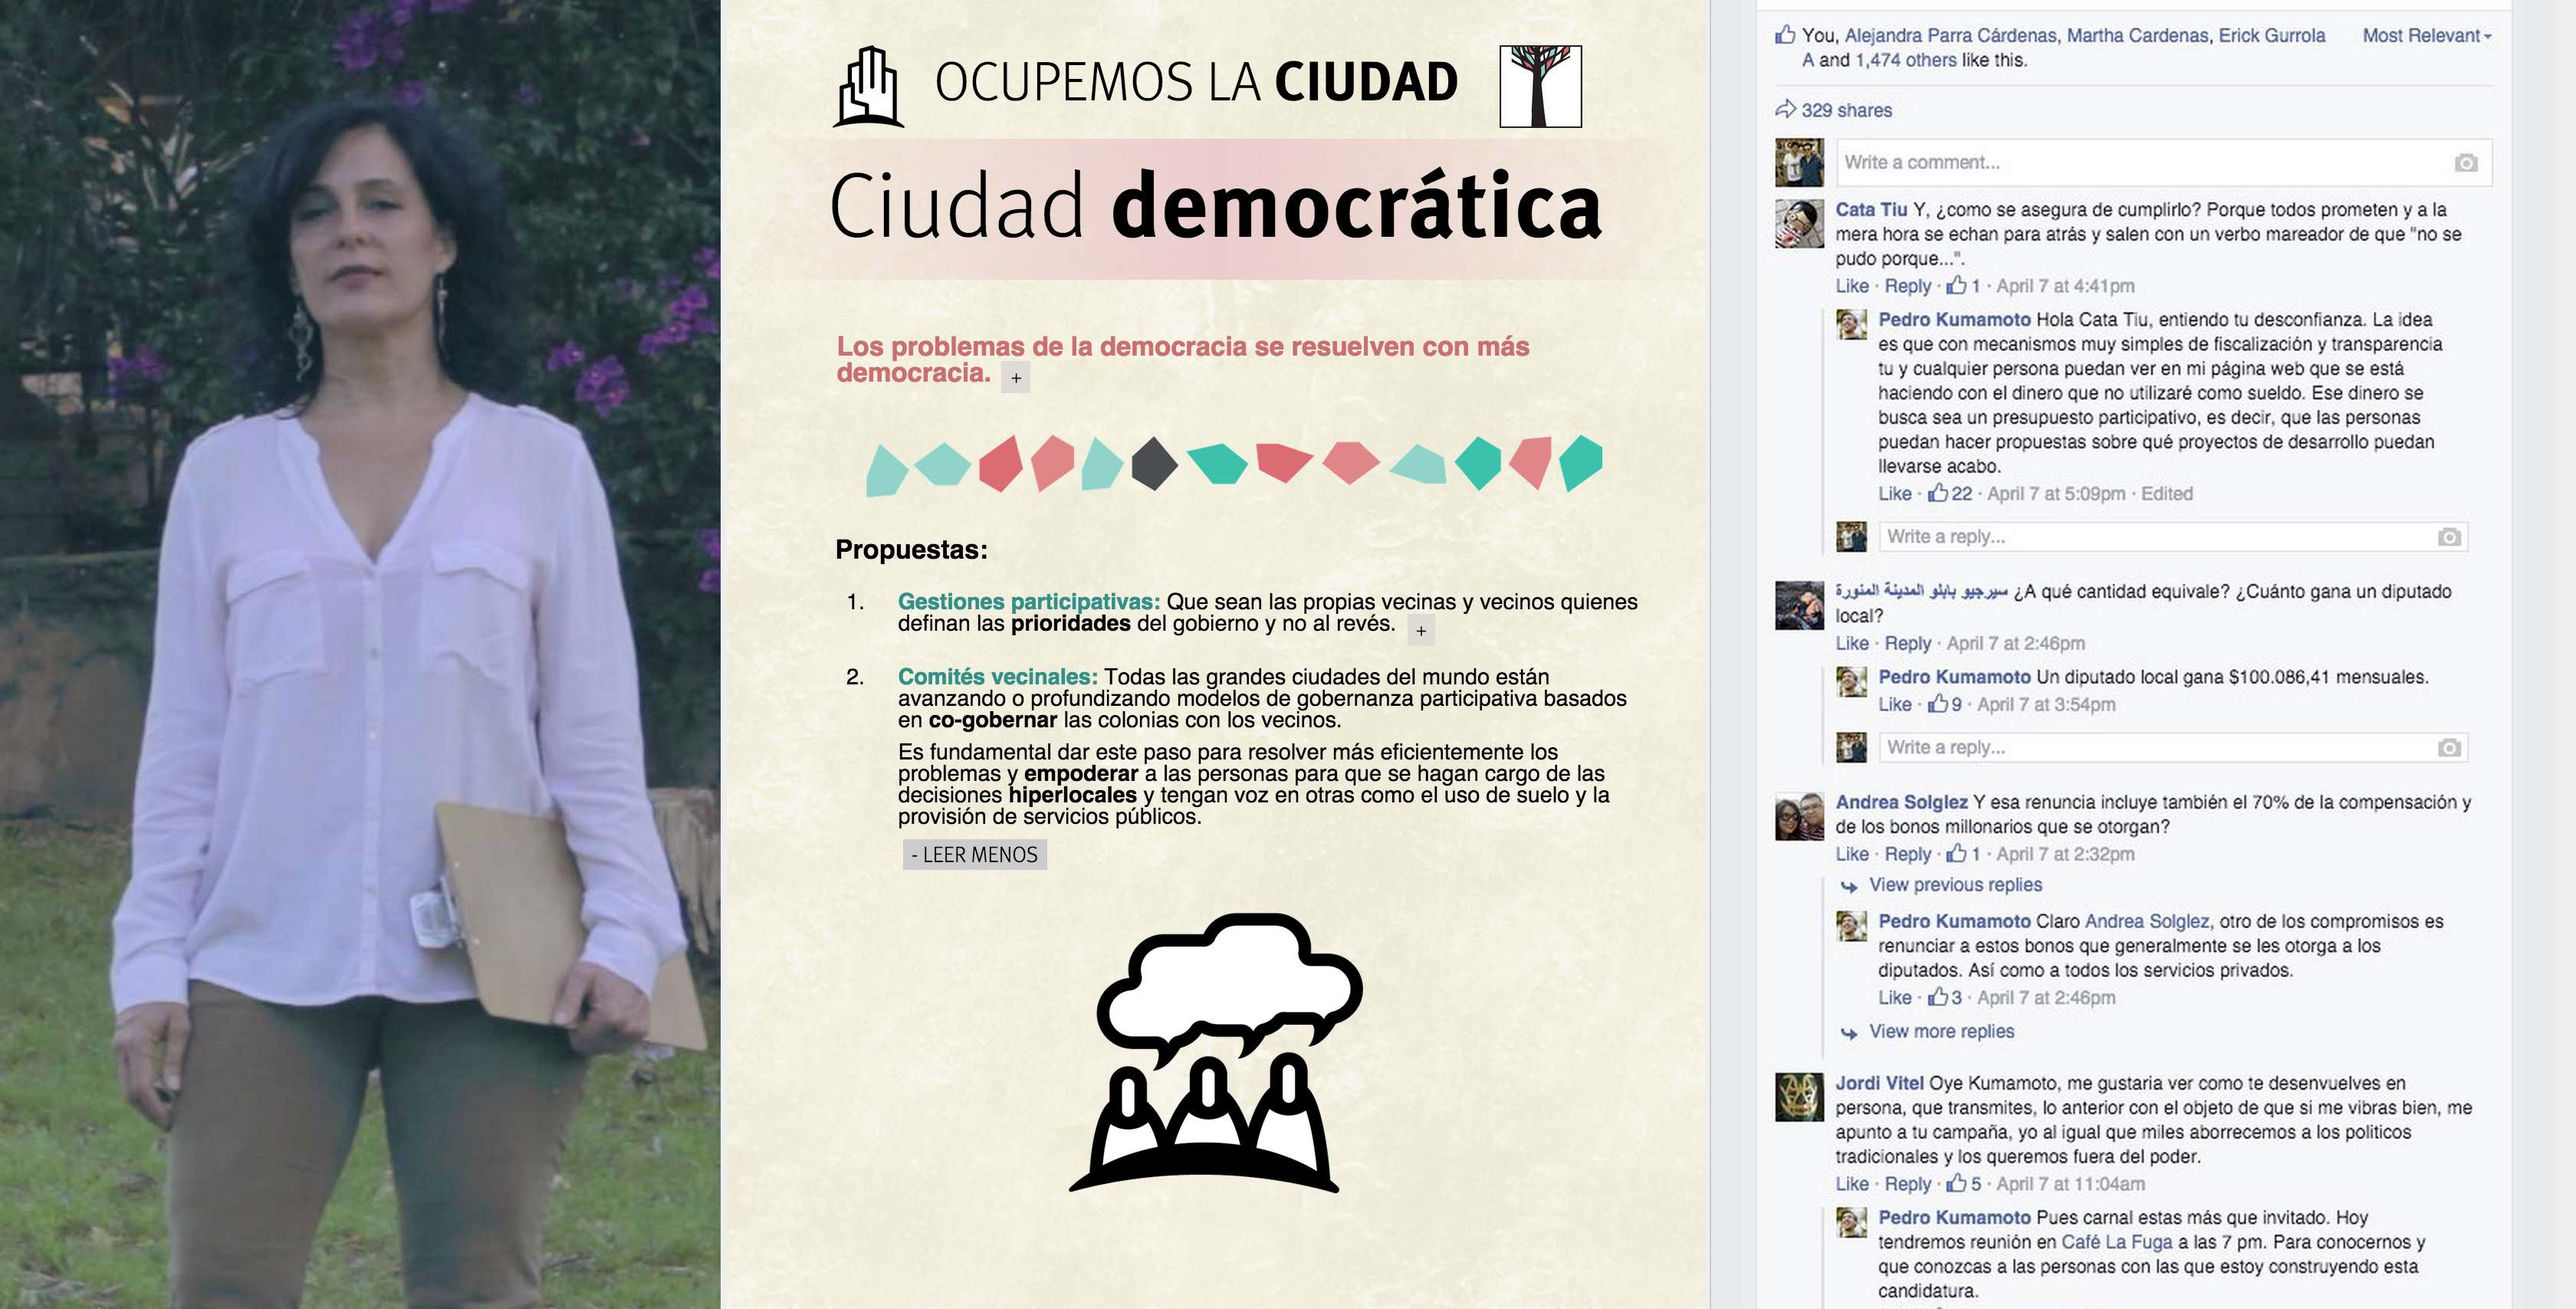
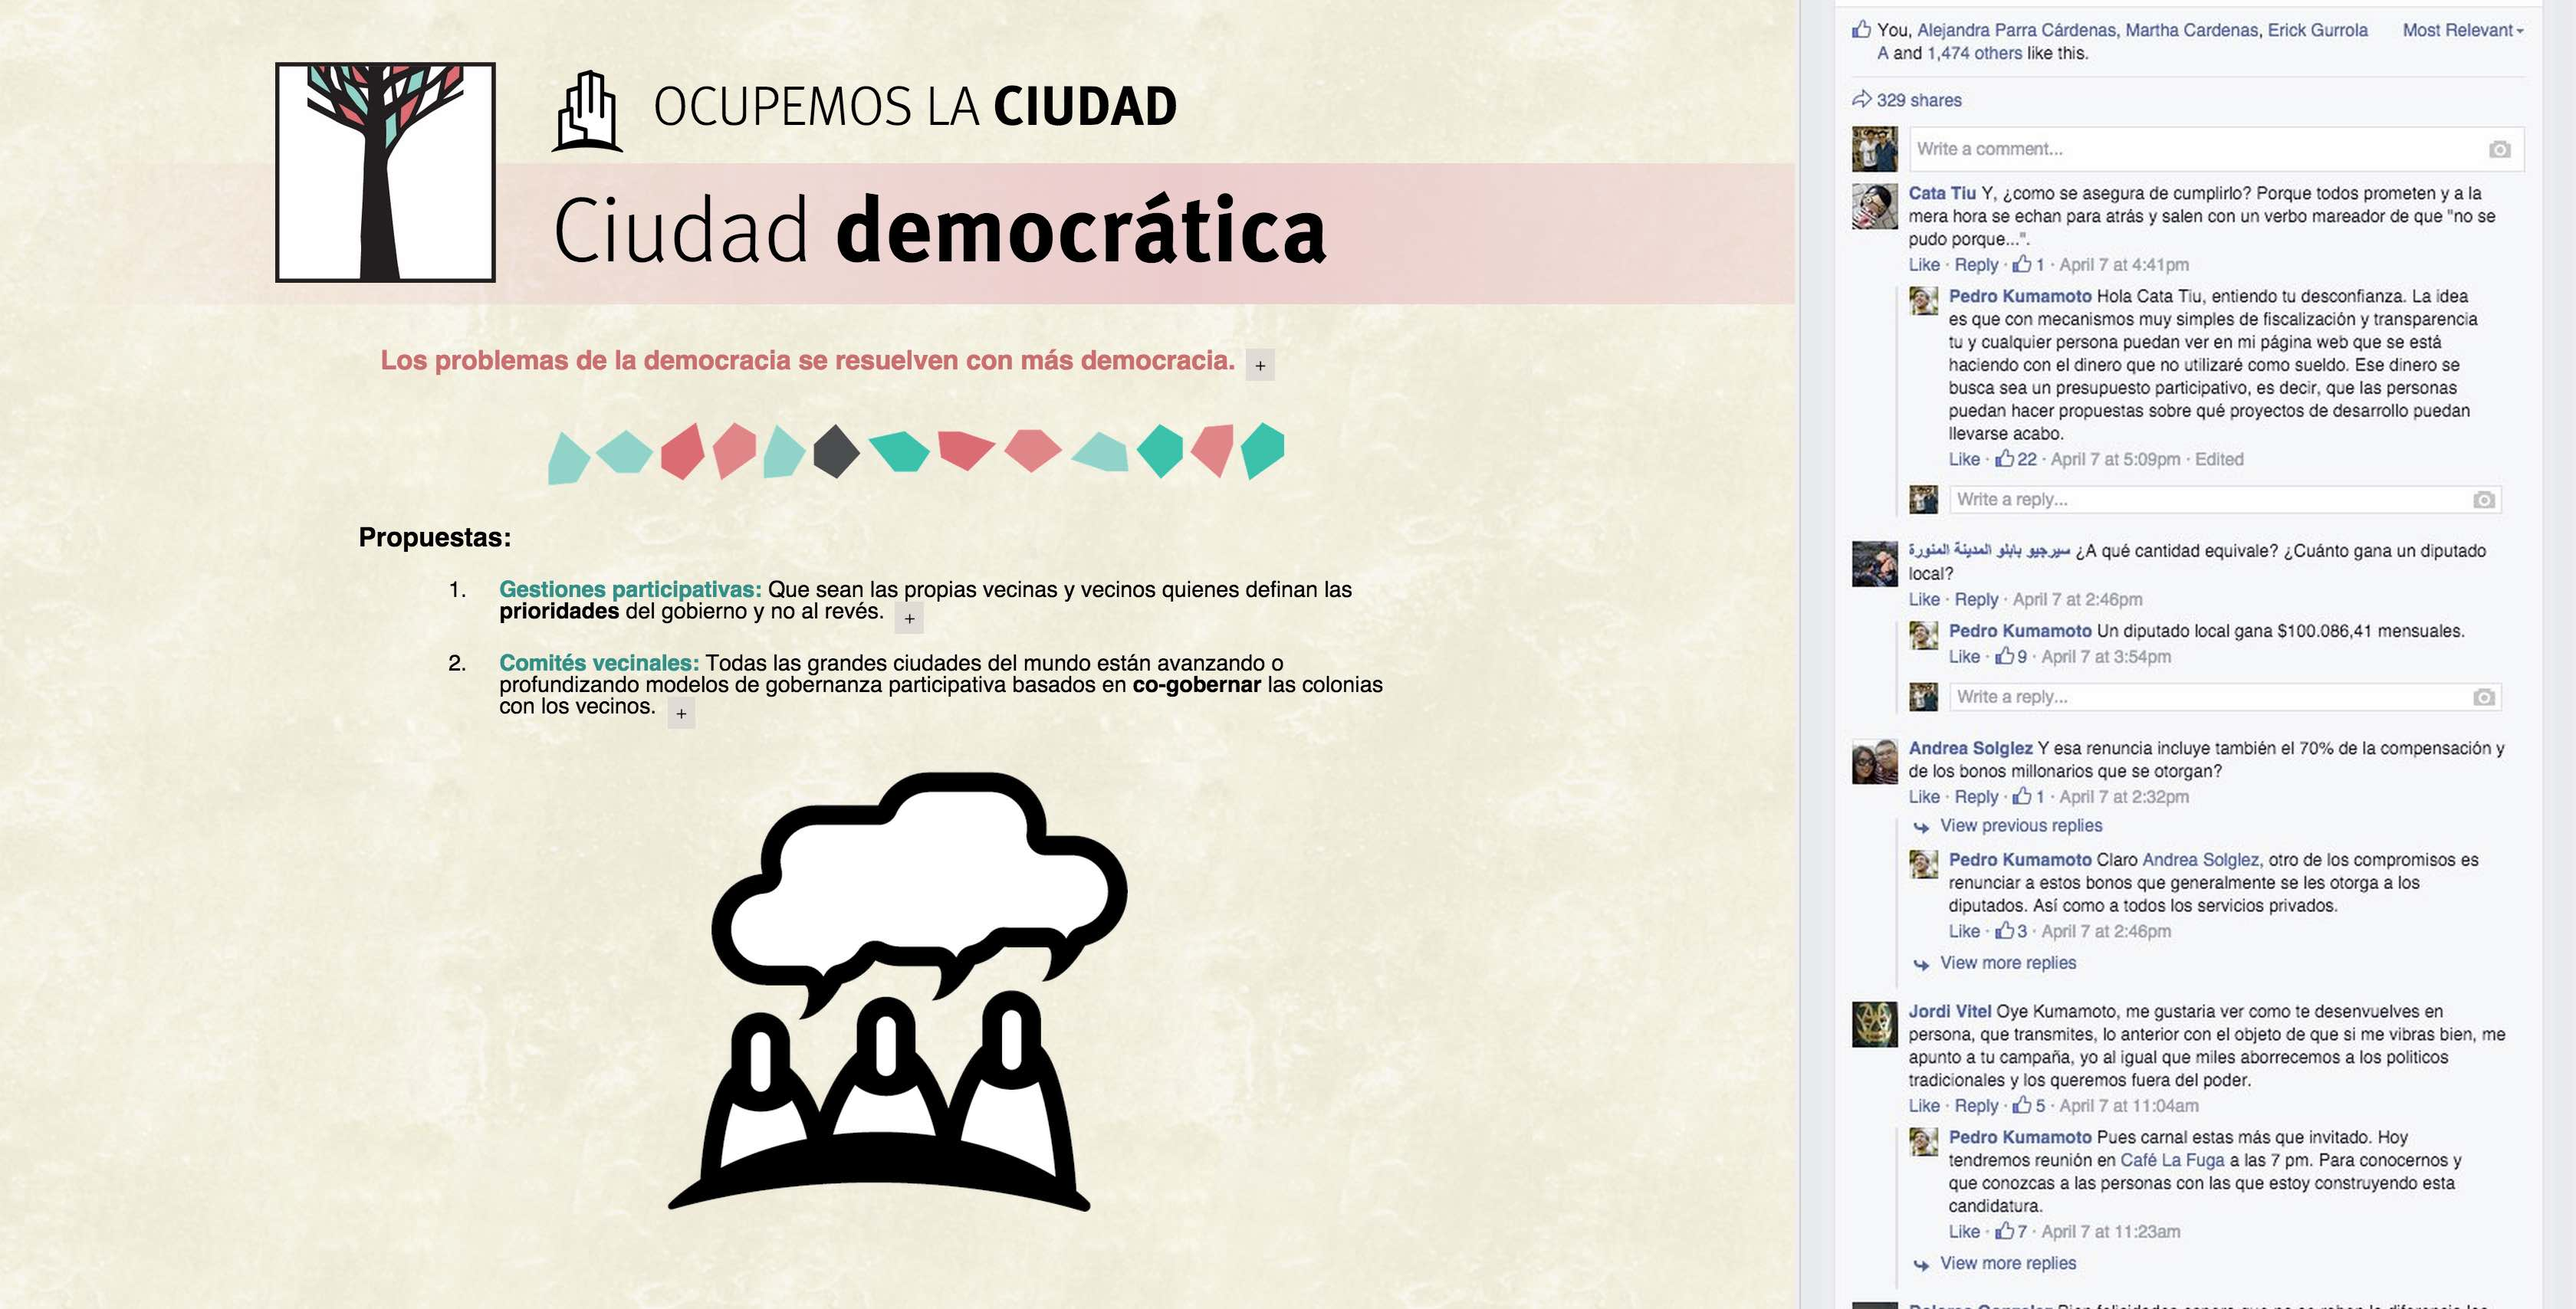
new screenshots!

diff --git a/test/propuestas/index.html b/test/propuestas/index.html
@@ -169,6 +169,7 @@
 </div>
 
 	</div>
+
 	<div class="section screen ciudad">
 		<img class="ciudad" src="/img/propuestas/bkg/apertura-la-calma-300k-uva.jpg" style="width:2000px; height:1125px" />
 		<h1>
@@ -224,6 +225,7 @@
 			</div>
 		</div>
 		<div class="fb">
+			<!--<img src="/img/fb-mockup.jpg" />-->
 			<div class="fb-container">
 				<!--<div class="fb-like" data-href="http://kumamoto.mx/test/propuestas/ciudad-democratica/" data-width="100%" data-layout="standard" data-action="like" data-show-faces="true" data-share="true"></div>-->
 				<!--<div class="fb-comments" data-href="http://kumamoto.mx/test/propuestas/ciudad-democratica/" data-width="100%" data-numposts="15" data-colorscheme="light"></div>-->
@@ -261,7 +263,7 @@
 					<li><strong>Reforma metropolitana:</strong> <span class="hidden">La Zona Metropolitana de Guadalajara está compuesta por <b>ocho</b> municipios. Actualmente, la legislación no provee suficientes herramientas de coordinación para hacer frente a los grandes desafíos que la ciudad tiene por delante. Es indispensable reformar diversas leyes y reglamentos para hacer esta colaboración posible y deseable para los municipios.</span> Queemos que Guadalajara deje de ser una <b>mancha urbana</b> y se convierta en una <b>ciudad</b>.</li>
 					<li><strong>Justicia ambiental y urbana:</strong> necesitamos organizaciones especializadas y con <b>dientes</b> que velen por el futuro de la ciudad, en particular, en materia medioambiental. <span class="hidden">Proponemos reformar la Procuraduría de Desarrollo Urbano y la Procuraduría Estatal de Protección al Ambiente para crear órganos independientes con autonomía de gestión y con la capacidad de hacer frente a los intereses que van en contra de un futuro <b>sustentable</b>.</span></li>
 					<li><strong>Foros vinculantes:</strong> El problema fundamental actual no es la falta de diagnósticos y propuestas de solución sino de <b>voluntad política</b> para apostar por una solución. <span class="hidden">Mi gestión busca ser <b>puente</b> entre representantes y representados por lo que propongo crear crear foros vinculantes con especialistas en materia de agua, movilidad, uso de suelo y desarrollo urbano para crear y/o reformar iniciativas de ley que garanticen la sostenibilidad en dichas materias. Dichas leyes serán realizadas por la sociedad civil organizada e introducidas en la Asamblea a través de mi.</span> </li>
-					<li><strong>Respeto a la fauna y flora de nuestro estado.</strong> <span class="hidden">Esta candidatura reconoce la importancia de legislar para que se respeten los derechos de los animales, para que se impulse la conservación de la biodiversidad de nuestro estado y para que se ponga al centro de la toma de decisiones la sutentabilidad medioambiental.</span><li>
+					<li><strong>Respeto a la fauna y flora de nuestro estado.</strong> <span class="hidden">Esta candidatura reconoce la importancia de legislar para que se respeten los derechos de los animales, para que se impulse la conservación de la biodiversidad de nuestro estado y para que se ponga al centro de la toma de decisiones la sutentabilidad medioambiental.</span></li>
 				</ol>
 			</div>
 			<div class="icono">
@@ -323,11 +325,13 @@
 				</ol>
 			</div>
 			<div class="icono">
-				<img src="/img/propuestas/iconos/ciudad-incluyente.png" />
+				<img src="/img/propuestas/iconos/ciudad-incluyente.png" style="width:20em" />
 			</div>
 		</div>
 		<div class="fb">
 			<div class="fb-container">
+
+				<!--<img src="/img/fb-mockup.jpg" />-->
 				<!--<div class="fb-like" data-href="http://kumamoto.mx/test/propuestas/ciudad-incluyente/" data-width="100%" data-layout="standard" data-action="like" data-show-faces="true" data-share="true"></div>-->
 				<!--<div class="fb-comments" data-href="http://kumamoto.mx/test/propuestas/ciudad-incluyente/" data-width="100%" data-numposts="15" data-colorscheme="light"></div>-->
 			</div>
@@ -383,6 +387,7 @@
 		<div class="fb">
 			<!--<img src="/img/fb-mockup.jpg" />-->
 			<div class="fb-container">
+				<!--<img src="/img/fb-mockup.jpg" />-->
 				<!--<div class="fb-like" data-href="http://kumamoto.mx/test/propuestas/gobernar-con-las-personas/" data-width="100%" data-layout="standard" data-action="like" data-show-faces="true" data-share="true"></div>-->
 				<!--<div class="fb-comments" data-href="http://kumamoto.mx/test/propuestas/gobernar-con-las-personas/" data-width="100%" data-numposts="15" data-colorscheme="light"></div>-->
 			</div>
@@ -426,6 +431,7 @@
 		<div class="fb">
 			<!--<img src="/img/fb-mockup.jpg" />-->
 			<div class="fb-container">
+				<!--<img src="/img/fb-mockup.jpg" />-->
 				<!--<div class="fb-like" data-href="http://kumamoto.mx/test/propuestas/habitemos-el-gobierno/" data-width="100%" data-layout="standard" data-action="like" data-show-faces="true" data-share="true"></div>-->
 				<!--<div class="fb-comments" data-href="http://kumamoto.mx/test/propuestas/habitemos-el-gobierno/" data-width="100%" data-numposts="15" data-colorscheme="light"></div>-->
 			</div>

diff --git a/css/style.css b/css/style.css
@@ -1228,7 +1228,7 @@ body {
           position: absolute;
           height: 4em;
           left: 5em;
-          top: 0.5em; }
+          top: 1.2em; }
     .propuestas .screen.democratica .text h1, .propuestas .screen.sostenible .text h1, .propuestas .screen.incluyente .text h1, .propuestas .screen.personas .text h1, .propuestas .screen.excelencia .text h1, .propuestas .screen.contrapeso .text h1 {
       text-align: left;
       margin-left: 0;
@@ -1251,7 +1251,8 @@ body {
     .propuestas .screen.democratica .text p, .propuestas .screen.sostenible .text p, .propuestas .screen.incluyente .text p, .propuestas .screen.personas .text p, .propuestas .screen.excelencia .text p, .propuestas .screen.contrapeso .text p {
       margin: 0;
       padding: 1.5em 3em;
-      padding-left: 5em; }
+      padding-left: 5em;
+      padding-top: 1em; }
     .propuestas .screen.democratica .text p, .propuestas .screen.democratica .text ol, .propuestas .screen.sostenible .text p, .propuestas .screen.sostenible .text ol, .propuestas .screen.incluyente .text p, .propuestas .screen.incluyente .text ol, .propuestas .screen.personas .text p, .propuestas .screen.personas .text ol, .propuestas .screen.excelencia .text p, .propuestas .screen.excelencia .text ol, .propuestas .screen.contrapeso .text p, .propuestas .screen.contrapeso .text ol {
       width: 60%;
       margin: 0 auto; }

diff --git a/css/style.scss b/css/style.scss
@@ -547,7 +547,7 @@ body {font-family:sans-serif; margin:0; padding:0; font-size:12px; background:#f
 					background:transparent; text-align:left;
 					img {height:1.5em; vertical-align:middle; margin-right:0.3em; }
 					a {text-decoration:none; color:#000;
-						img.kumalogo {position:absolute; height:4em; left:5em; top:0.5em}
+						img.kumalogo {position:absolute; height:4em; left:5em; top:1.2em}
 					}
 				}
 				h1 {text-align:left; margin-left:0; margin-top:0; padding:0.4em 0; padding-top:0.2em; padding-left:6em; font-size:5em; background:-webkit-linear-gradient(left, transparent, #EACCCC, transparent); line-height:0.9em}
@@ -555,7 +555,7 @@ body {font-family:sans-serif; margin:0; padding:0; font-size:12px; background:#f
 					img {width:25em}
 				}
 				p, ol li {margin:0 2em; padding:0.7em 1em; padding-bottom:0.3em}
-				p {margin:0; padding:1.5em 3em; padding-left:5em}
+				p {margin:0; padding:1.5em 3em; padding-left:5em; padding-top:1em}
 				p, ol {width:60%; margin:0 auto;}
 				p.propuestas {padding:0.5em 4.1em}
 
